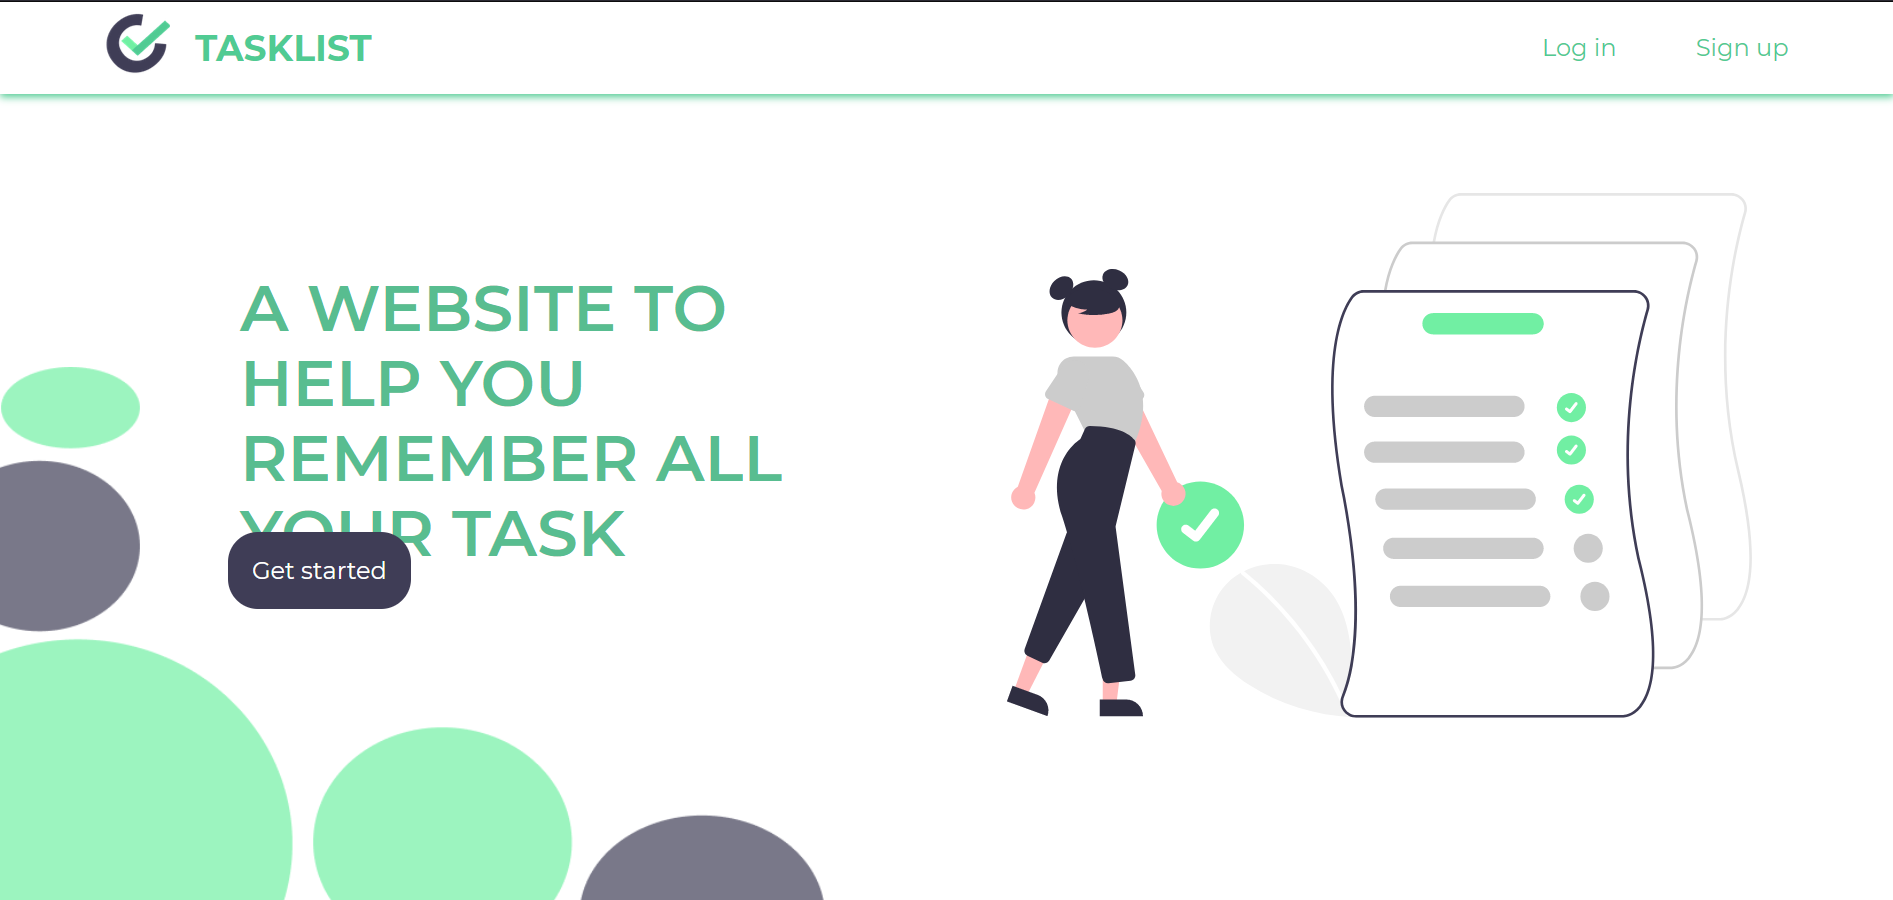
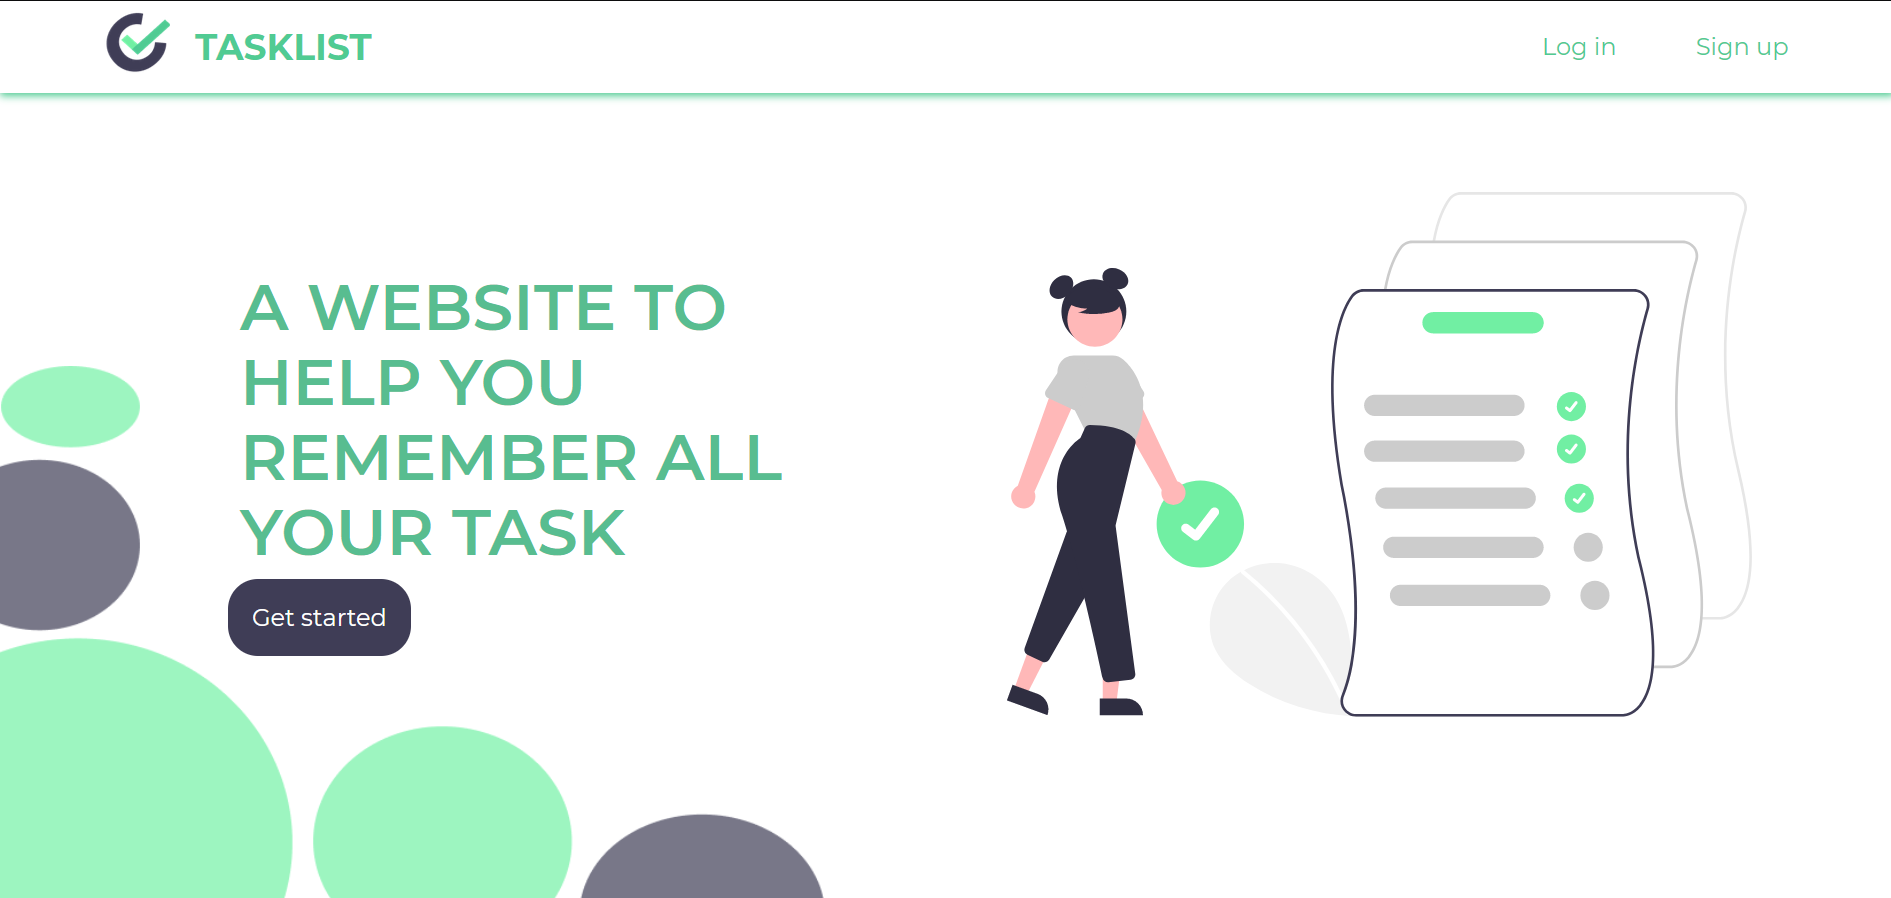
Update Ui

diff --git a/src/components/hero.css b/src/components/hero.css
@@ -35,7 +35,7 @@
 .hero__link {
   position: absolute;
   left: 9.5rem;
-  bottom: 12.5rem;
+  bottom: 10.5rem;
   text-decoration: none;
   color: #fff;
   background-color: #3f3d56;
